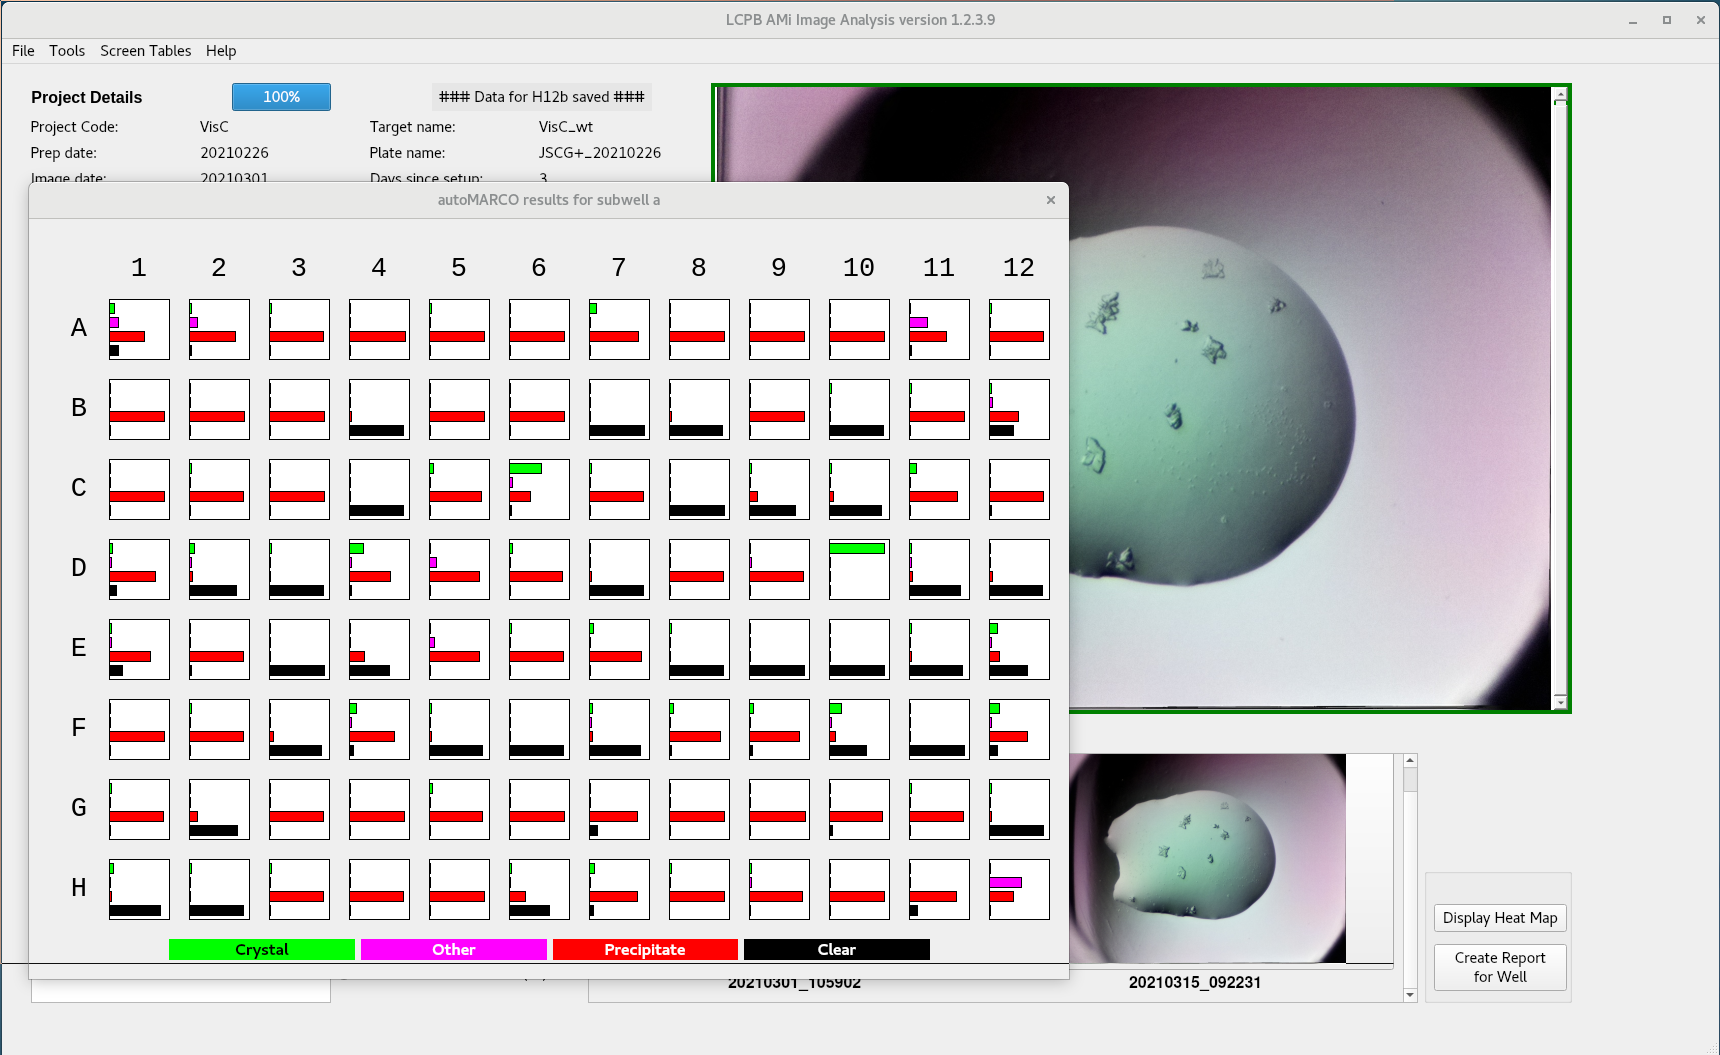
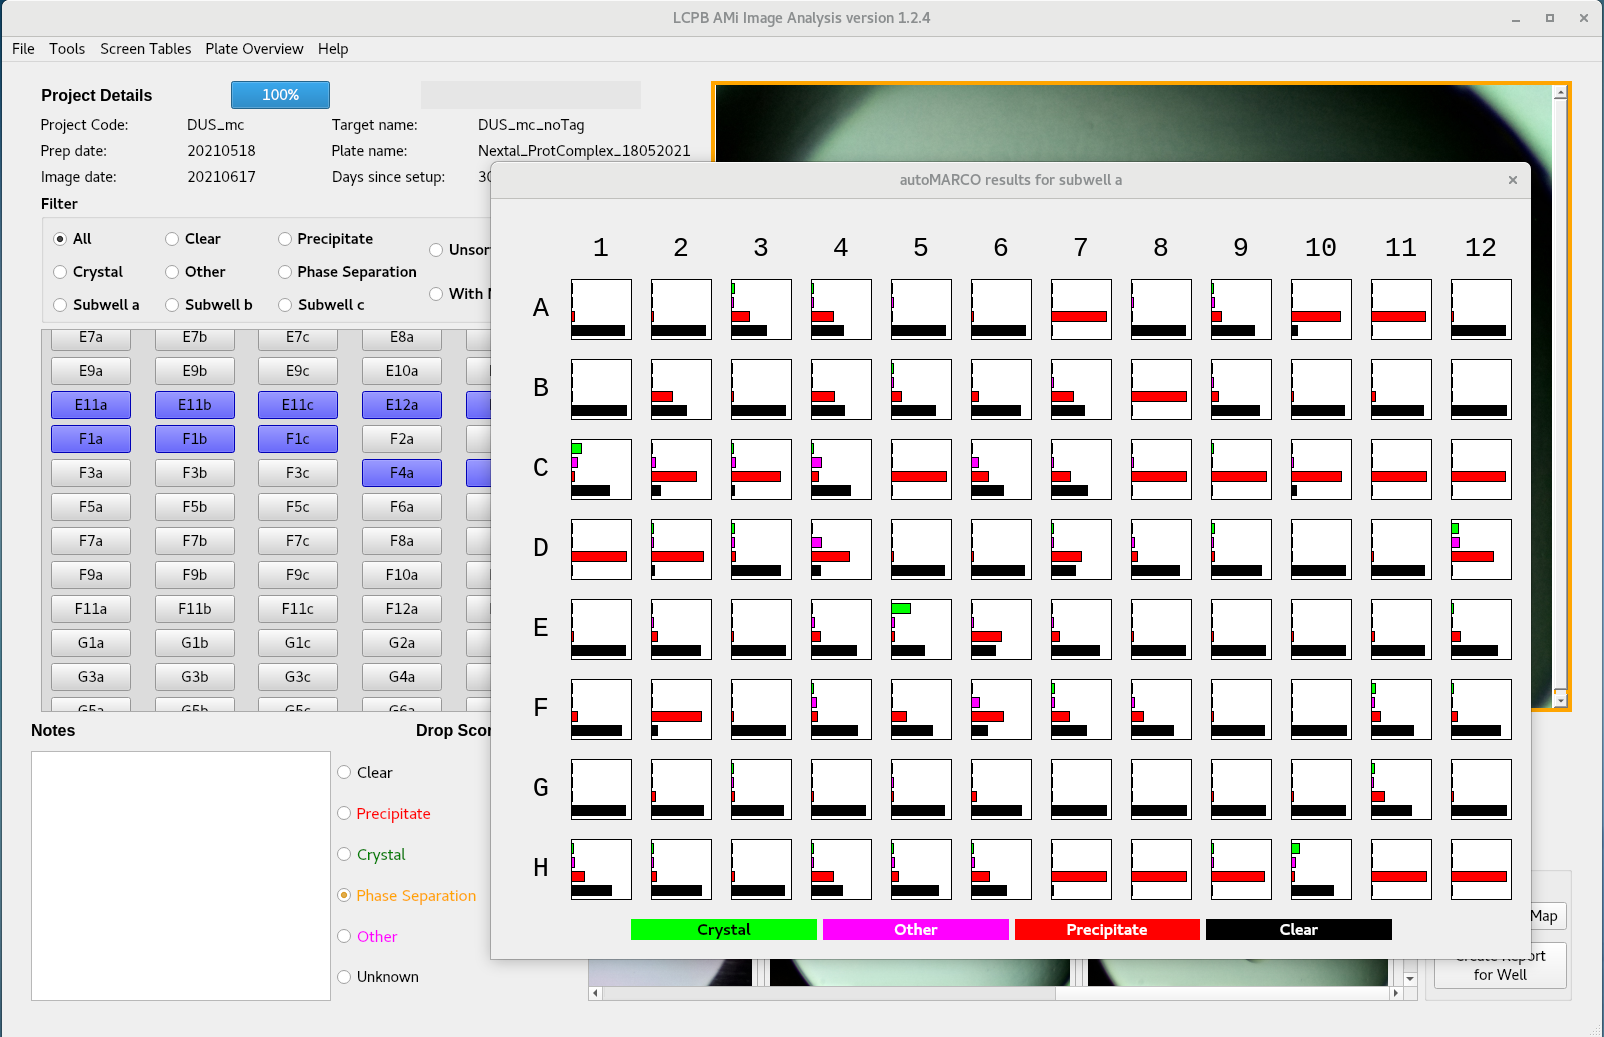
Color coding Overview, updated screenshots

diff --git a/PlateOverview.py b/PlateOverview.py
@@ -1,0 +1,187 @@
+#!/usr/bin/env python3
+# -*- coding: utf-8 -*-
+"""
+Created on Wed Jun 23 09:36:00 2021
+
+"""
+
+__version__ = "0.0.1"
+__author__ = "Ludovic Pecqueur (ludovic.pecqueur \at college-de-france.fr)"
+__date__ = "24-06-2021"
+__license__ = "New BSD http://www.opensource.org/licenses/bsd-license.php"
+
+
+from PyQt5 import QtCore, QtWidgets, QtGui
+import re
+from PyQt5.QtGui import QFont, QPixmap
+from PyQt5.QtWidgets import QTableWidget, QTableWidgetItem, QLabel,QFrame
+from pathlib import Path
+from preferences import ClassificationColor
+
+class Ui_Dialog(object):
+    def setupUi(self, Dialog):
+        # Dialog.setObjectName("Dialog")
+        # Dialog.resize(1100, 760)
+        Dialog.resize(1600, 900)
+        sizePolicy = QtWidgets.QSizePolicy(QtWidgets.QSizePolicy.Fixed, QtWidgets.QSizePolicy.Fixed)
+        sizePolicy.setHorizontalStretch(0)
+        sizePolicy.setVerticalStretch(0)
+        sizePolicy.setHeightForWidth(Dialog.sizePolicy().hasHeightForWidth())
+        Dialog.setSizePolicy(sizePolicy)
+        self.horizontalLayoutWidget = QtWidgets.QWidget(Dialog)
+        self.horizontalLayoutWidget.setGeometry(QtCore.QRect(140, 720, 761, 21))
+        self.horizontalLayoutWidget.setObjectName("horizontalLayoutWidget")
+        self.horizontalLayout = QtWidgets.QHBoxLayout(self.horizontalLayoutWidget)
+        self.horizontalLayout.setContentsMargins(0, 0, 0, 0)
+        self.horizontalLayout.setObjectName("horizontalLayout")
+        self.pushButton_ExportImage = QtWidgets.QPushButton(Dialog)
+        self.pushButton_ExportImage.setGeometry(QtCore.QRect(400, 870, 101, 25))
+        self.pushButton_ExportImage.setObjectName("pushButton_ExportImage")
+        self.pushButton_Close = QtWidgets.QPushButton(Dialog)
+        self.pushButton_Close.setGeometry(QtCore.QRect(540, 870, 101, 25))
+        self.pushButton_Close.setObjectName("pushButton_Close")
+        self.retranslateUi(Dialog)
+        QtCore.QMetaObject.connectSlotsByName(Dialog)
+
+    def retranslateUi(self, Dialog):
+        _translate = QtCore.QCoreApplication.translate
+        Dialog.setWindowTitle(_translate("Dialog", "Results"))
+        self.pushButton_ExportImage.setText(_translate("Dialog", "Export JPEG"))
+        self.pushButton_Close.setText(_translate("Dialog", "Close"))
+
+# class Plate(QtWidgets.QDialog,PlateOverview.Ui_Dialog):
+#     ''' '''
+#     def __init__(self, parent=None):
+#         super(Plate, self).__init__(parent)
+#         self.dx=120
+#         self.dy=90
+#         self.setupUi(self)
+    
+#     def paintEvent(self, e):
+#         qp = QtGui.QPainter()
+#         qp.begin(self)
+#         self.paint_Grid(qp)
+#         qp.end()
+#         QtGui.QPixmapCache.clear()
+
+#     def paint_Grid(self, qp):
+#         ''' adapted from https://github.com/dakota0064/Fluorescent_Robotic_Imager '''
+
+#         rows = ['A', 'B', 'C', 'D', 'E', 'F', 'G', 'H']
+#         cols = ['1', '2', '3', '4', '5', '6', '7', '8', '9', '10', '11', '12']
+#         wells = ['a', 'b', 'c']
+
+#         total_wells = [row + str(col) for row in rows for col in cols]
+
+#         def well_to_coordinates(well):
+#             row = int(ord(well[0])) - 65
+#             column = int(('').join(re.findall(r'\d+',well))) - 1
+#             x1 = 80 + (column * self.dx)
+#             y1 = (80 + row * self.dy)
+#             return (x1, y1, self.dx, self.dy)
+        
+#         for row in rows:
+#             row_int = int(ord(row)) - 65
+#             y1 = 80 + row_int * self.dy
+#             qp.setFont(QFont("Courier New", 20))
+#             qp.drawText(0, y1, self.dx, self.dy, QtCore.Qt.AlignCenter, row)  
+
+#         for col in cols:
+#             col_int = int(col) - 1
+#             x1 = 80 + (col_int * self.dx)
+#             qp.setFont(QFont("Courier New", 20))
+#             qp.drawText(x1, 5, self.dx, self.dy, QtCore.Qt.AlignCenter, col)
+        
+#         for path in self.files:
+#             filepath=Path(path)
+#             well=filepath.stem
+#             # print("path: ", path, "filepath: ", filepath)
+#             if self.subwell!="" and self.subwell in well[-1]:
+#                 (x1, y1, dx, dy) = well_to_coordinates(well)
+#                 # r = QtCore.QRect(x1, y1, dx, dy)
+#                 pixmap=QPixmap(str(filepath))
+#                 pixmap = pixmap.scaled(dx,dy, QtCore.Qt.KeepAspectRatio, QtCore.Qt.FastTransformation)
+#                 qp.drawPixmap(x1,y1,dx,dy, pixmap)
+#                 # QtGui.QPixmapCache.clear()
+#                 # del pixmap,filepath
+#             elif self.subwell=="" and well[-1] not in wells:
+#                 (x1, y1, dx, dy) = well_to_coordinates(well)
+#                 # r = QtCore.QRect(x1, y1, dx, dy)
+#                 pixmap=QPixmap(str(filepath))
+#                 pixmap = pixmap.scaled(dx,dy, QtCore.Qt.KeepAspectRatio, QtCore.Qt.FastTransformation)
+#                 qp.drawPixmap(x1,y1,dx,dy, pixmap)
+#                 # QtGui.QPixmapCache.clear()
+#                 # del pixmap,filepath
+#             else:
+#                 continue
+
+class Plate(QTableWidget):
+    def __init__(self, r, c):
+        super().__init__(r, c)
+        self.dx=120
+        self.dy=90
+        self.rows = ['A', 'B', 'C', 'D', 'E', 'F', 'G', 'H']
+        self.cols = ['1', '2', '3', '4', '5', '6', '7', '8', '9', '10', '11', '12']
+        self.wells = ['a', 'b', 'c']
+        # self.total_wells = [row + str(col) for row in rows for col in cols]
+
+    def well_to_coordinates(self,well):
+        row = int(ord(well[0])) - 64
+        column = int(('').join(re.findall(r'\d+',well)))
+        # print("ROW: ", row, "column: ", column)
+        return (row, column)
+    
+    def display_images(self, files, classifications):
+        for path in files:
+            # print(position, path)
+            filepath=Path(path)
+            well=filepath.stem
+            for row in self.rows:
+                item = QTableWidgetItem(row)
+                item.setTextAlignment(QtCore.Qt.AlignHCenter | QtCore.Qt.AlignVCenter)
+                item.setFont(QFont("Courier New", 20))
+                self.setItem(self.rows.index(row)+1,0, item)
+            for col in self.cols:
+                item = QTableWidgetItem(col)
+                item.setTextAlignment(QtCore.Qt.AlignHCenter | QtCore.Qt.AlignVCenter)
+                item.setFont(QFont("Courier New", 20))
+                self.setItem(0, self.cols.index(col)+1, item)
+                
+            if self.subwell!="" and self.subwell in well[-1]:
+                (row, column)=self.well_to_coordinates(str(well))
+                label=QLabel()
+                pixmap=QPixmap(str(filepath))
+                pixmap = pixmap.scaled(self.dx,self.dy, QtCore.Qt.KeepAspectRatio, QtCore.Qt.FastTransformation)
+                label.setPixmap(pixmap)
+                label.setFrameShape(QFrame.Panel)
+                label.setLineWidth(2)
+                label.setStyleSheet("color: %s;"%ClassificationColor[classifications[well]]["background"])
+                label.setAlignment(QtCore.Qt.AlignHCenter | QtCore.Qt.AlignVCenter)
+                self.setCellWidget(row, column, label)
+            elif self.subwell=="" and well[-1] not in self.wells:
+                (row, column)=self.well_to_coordinates(str(well))
+                label=QLabel()
+                pixmap=QPixmap(str(filepath))
+                pixmap = pixmap.scaled(self.dx-2,self.dy-2, QtCore.Qt.KeepAspectRatio, QtCore.Qt.FastTransformation)
+                label.setPixmap(pixmap)
+                label.setFrameShape(QFrame.Panel)
+                label.setLineWidth(2)
+                label.setStyleSheet("color: %s;"%ClassificationColor[classifications[well]]["background"])
+                label.setAlignment(QtCore.Qt.AlignHCenter | QtCore.Qt.AlignVCenter)
+                self.setCellWidget(row, column, label)
+            else:
+                continue
+            self.horizontalHeader().setDefaultSectionSize(self.dx)
+            self.verticalHeader().setDefaultSectionSize(self.dy)
+            self.horizontalHeader().resizeSection(0,50)
+            self.verticalHeader().resizeSection(0,50)
+            
+
+if __name__ == "__main__":
+    import sys
+    app = QtWidgets.QApplication(sys.argv)
+    Dialog = QtWidgets.QDialog()
+    ui = Ui_Dialog()
+    ui.setupUi(Dialog)
+    Dialog.show()
+    sys.exit(app.exec_())

diff --git a/AMi_Image_Analysis.py b/AMi_Image_Analysis.py
@@ -336,10 +336,11 @@ class ViewerModule(QtWidgets.QMainWindow, Ui_MainWindow):
         
         self.PLATE_window[subwell] = PlateOverview.Plate(9,13)
         self.PLATE_window[subwell].subwell=subwell
-        self.PLATE_window[subwell].setWindowTitle(f"Overview Screen: {self.plate} ({self.date}) subwell {subwell}")
+        self.PLATE_window[subwell].setWindowTitle(f"Plate Overview: {self.plate} ({self.date}) | subwell {subwell}")
         # self.PLATE_window[subwell].files=self.files
         # self.PLATE_window[subwell].positions=self.GenerateGrid(self.files)
-        self.PLATE_window[subwell].display_images(self.files)
+        self.PLATE_window[subwell].display_images(self.files, self.classifications)
+        self.PLATE_window[subwell].setStyleSheet("""background-color: rgb(240,240,240)""")
         self.PLATE_window[subwell].resize(1520, 810)
         self.PLATE_window[subwell].show()
         QtGui.QPixmapCache.clear()

diff --git a/README.md b/README.md
@@ -5,7 +5,7 @@ This is a Python 3 / PyQt5 project dedicated to the analysis of the images gener
 For more details on this device, please look at:
 "AMi: a GUI-based, open-source system for imaging samples in multi-well plates" [[1]](#1)
 
-This program should work with images taken by other machines given the folder tree is as expected (see below).
+This program should work with images taken by other machines given the folder hierarchy is respected (see below).
 
 
 ## Features:
@@ -20,7 +20,7 @@ Images are scored using the Drop Score section and more details can be written i
 The results can be displayed on a grid for quick overall inspection and statistics are calculated.
 A report of the current well can be saved as a pdf.
 
-The tree must be organized like:
+The tree must be organized like this:
 
 ```bash
 .
@@ -61,6 +61,7 @@ The file "prep_date.txt" contains the preparation date as a single line with for
 ![Screenshot 1](./screenshot1.png)
 ![Screenshot 2](./screenshot2.png)
 ![Screenshot 3](./screenshot3.png)
+![Screenshot 4](./screenshot4.png)
 
 
 ## Install
